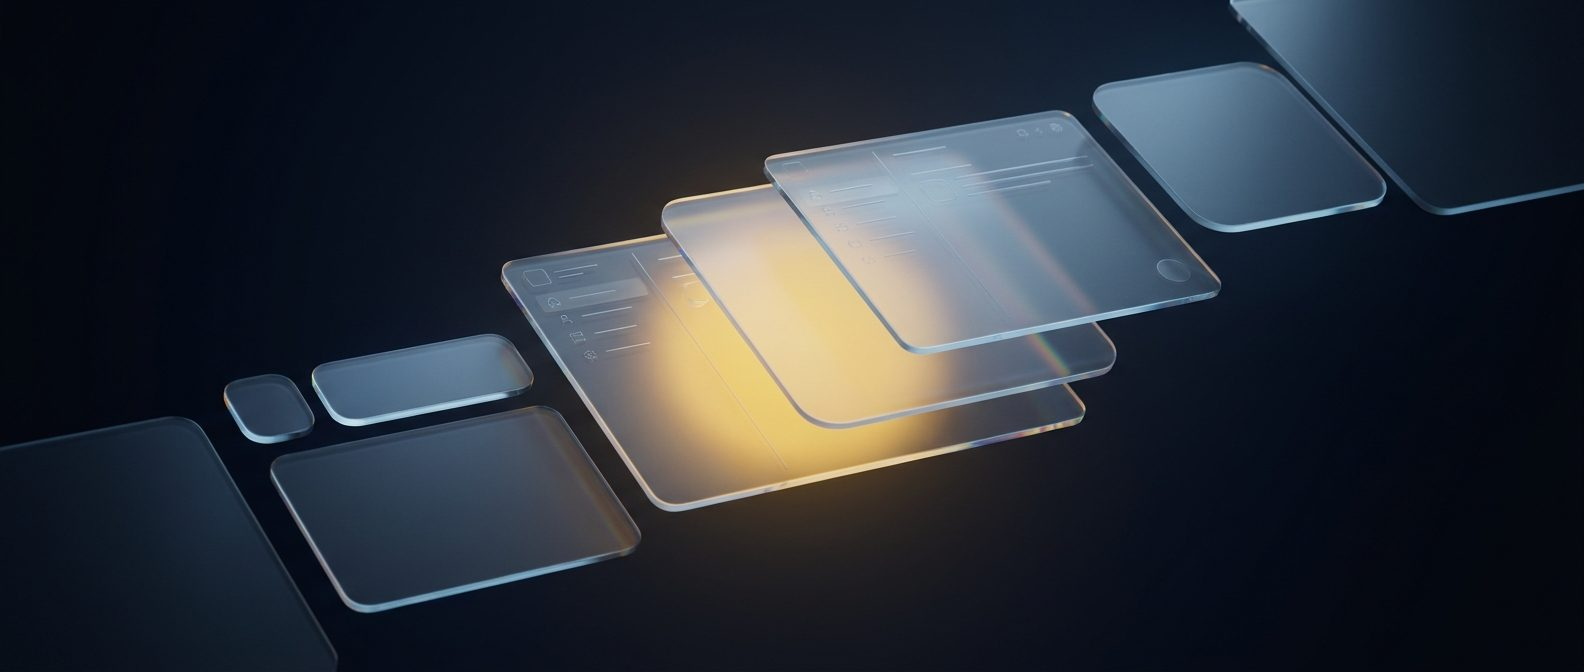
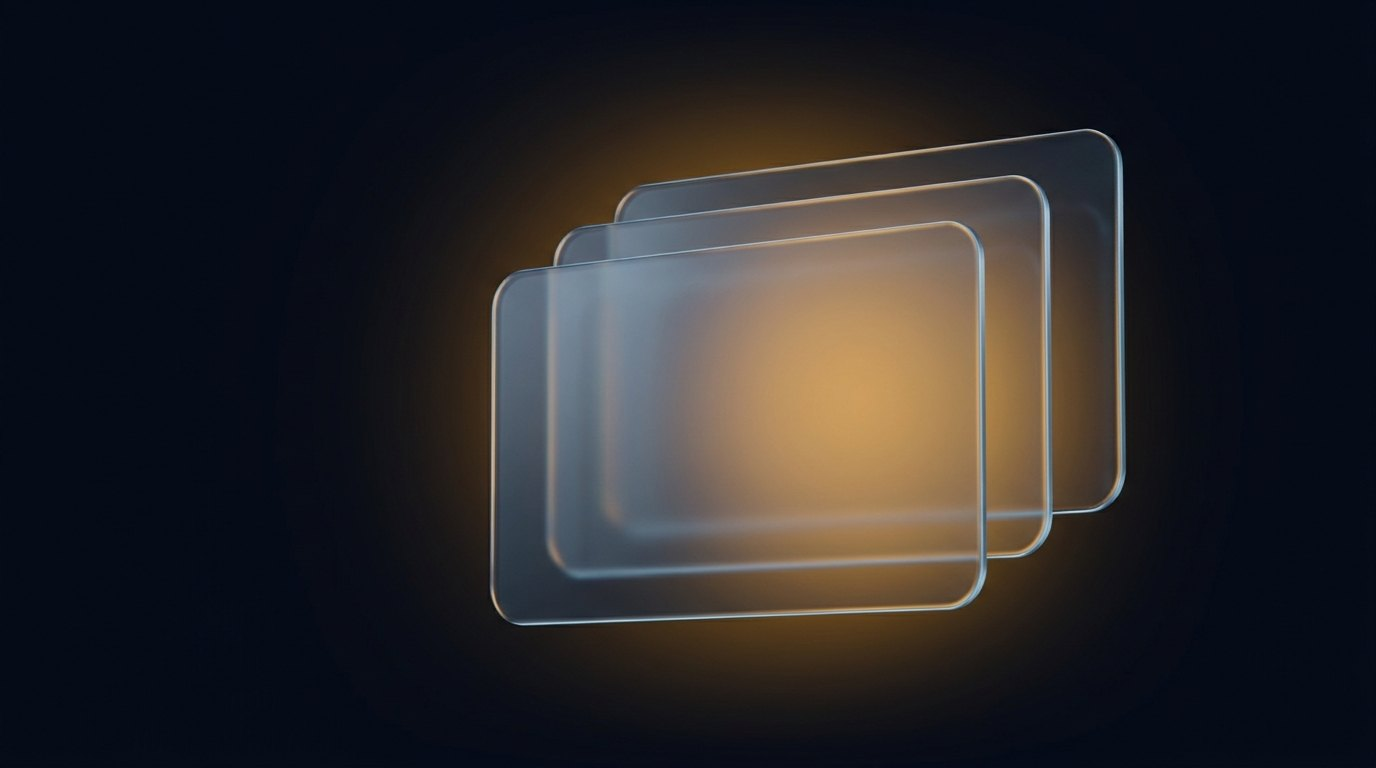
Refine contact block background and COD impact heading
- Contact block: new calmer glass-stack background, vignette, grain and
  outline; glass shifted clear of the heading, narrower lead on desktop
- Calculations on Demand: impact heading on three lines from tablet up

diff --git a/assets/css/styles.css b/assets/css/styles.css
@@ -363,6 +363,22 @@ label,
   margin-bottom: clamp(var(--sp-8), 5vw, var(--sp-10));
 }
 
+/* long headings that should run wider than the default measure */
+.section-head--wide {
+  max-width: none;
+}
+
+/* line breaks that apply from tablet width up */
+.br-lg {
+  display: none;
+}
+
+@media (min-width: 720px) {
+  .br-lg {
+    display: inline;
+  }
+}
+
 .section-head--center {
   margin-inline: auto;
   text-align: center;
@@ -2444,7 +2460,9 @@ label,
   padding: clamp(1.25rem, 0.5rem + 2.2vw, 2.5rem) clamp(1.25rem, 0.25rem + 4.5vw, 5rem);
   border-radius: var(--r-xl);
   overflow: hidden;
-  background: var(--bg-1);
+  background: #05070f;
+  outline: 1px solid var(--line);
+  outline-offset: -1px;
 }
 
 @media (min-width: 1200px) {
@@ -2462,15 +2480,41 @@ label,
   width: 100%;
   height: 100%;
   object-fit: cover;
-  opacity: 0.85;
+  object-position: 58% 50%;
 }
 
+/* side-by-side layout: shift the glass stack right, clear of the heading */
+@media (min-width: 1200px) {
+  .cta__bg {
+    transform: translateX(4%);
+  }
+
+  .cta__copy .lead {
+    max-width: min(27rem, 28vw);
+  }
+}
+
+/* readability on the left + soft vignette so the image melts into the panel edges */
 .cta::before {
   content: "";
   position: absolute;
   inset: 0;
   z-index: -1;
-  background: linear-gradient(90deg, rgba(11, 13, 22, 0.85) 0%, rgba(11, 13, 22, 0.35) 60%, rgba(11, 13, 22, 0.55) 100%);
+  background:
+    linear-gradient(90deg, rgba(11, 13, 22, 0.88) 0%, rgba(11, 13, 22, 0.55) 34%, rgba(11, 13, 22, 0) 62%),
+    radial-gradient(120% 120% at 55% 50%, transparent 45%, rgba(11, 13, 22, 0.85) 100%);
+}
+
+.cta::after {
+  content: "";
+  position: absolute;
+  inset: 0;
+  z-index: -1;
+  border-radius: inherit;
+  background-image: var(--grain);
+  opacity: 0.06;
+  mix-blend-mode: overlay;
+  pointer-events: none;
 }
 
 .cta__title {

diff --git a/calculations-on-demand.html b/calculations-on-demand.html
@@ -243,9 +243,9 @@
   <!-- ============ Impact ============ -->
   <section class="section" aria-labelledby="impact-title">
     <div class="container">
-      <div class="section-head rv">
+      <div class="section-head section-head--wide rv">
         <span class="eyebrow">Results</span>
-        <h2 class="h-xl" id="impact-title">We don’t just deliver numbers — we drive strategic efficiency that boosts your bottom line</h2>
+        <h2 class="h-xl" id="impact-title">We don’t just deliver numbers — <br class="br-lg">we drive strategic efficiency <br class="br-lg">that boosts your bottom line</h2>
       </div>
       <div class="tiles tiles--3">
         <div class="benefit rv">
@@ -293,7 +293,7 @@
     <div class="container">
       <!-- #contact is on the panel itself so the Contact link lands on it, not on the section spacing above -->
       <div class="cta" id="contact">
-        <img class="cta__bg" src="assets/img/gen/cta-glass.jpg" alt="" width="1584" height="672" loading="lazy">
+        <img class="cta__bg" src="assets/img/gen/cta-glass.jpg" alt="" width="1376" height="768" loading="lazy">
         <div class="cta__copy rv">
           <span class="eyebrow">Get in touch</span>
           <h2 class="cta__title h-xl" id="contact-title">Simplify your ground handling</h2>

diff --git a/index.html b/index.html
@@ -617,7 +617,7 @@
     <div class="container">
       <!-- #contact is on the panel itself so the Contact link lands on it, not on the section spacing above -->
       <div class="cta" id="contact">
-        <img class="cta__bg" src="assets/img/gen/cta-glass.jpg" alt="" width="1584" height="672" loading="lazy">
+        <img class="cta__bg" src="assets/img/gen/cta-glass.jpg" alt="" width="1376" height="768" loading="lazy">
         <div class="cta__copy rv">
           <span class="eyebrow">Get in touch</span>
           <h2 class="cta__title h-xl" id="contact-title">Simplify your airport ground operations</h2>

diff --git a/case-study-foxtrot-aviation-services.html b/case-study-foxtrot-aviation-services.html
@@ -303,7 +303,7 @@
     <div class="container">
       <!-- #contact is on the panel itself so the Contact link lands on it, not on the section spacing above -->
       <div class="cta" id="contact">
-        <img class="cta__bg" src="assets/img/gen/cta-glass.jpg" alt="" width="1584" height="672" loading="lazy">
+        <img class="cta__bg" src="assets/img/gen/cta-glass.jpg" alt="" width="1376" height="768" loading="lazy">
         <div class="cta__copy rv">
           <span class="eyebrow">Get in touch</span>
           <h2 class="cta__title h-xl" id="contact-title">Simplify your ground handling</h2>

diff --git a/case-study-iag-transform.html b/case-study-iag-transform.html
@@ -270,7 +270,7 @@
     <div class="container">
       <!-- #contact is on the panel itself so the Contact link lands on it, not on the section spacing above -->
       <div class="cta" id="contact">
-        <img class="cta__bg" src="assets/img/gen/cta-glass.jpg" alt="" width="1584" height="672" loading="lazy">
+        <img class="cta__bg" src="assets/img/gen/cta-glass.jpg" alt="" width="1376" height="768" loading="lazy">
         <div class="cta__copy rv">
           <span class="eyebrow">Get in touch</span>
           <h2 class="cta__title h-xl" id="contact-title">Simplify your ground handling</h2>

diff --git a/data-management.html b/data-management.html
@@ -298,7 +298,7 @@
     <div class="container">
       <!-- #contact is on the panel itself so the Contact link lands on it, not on the section spacing above -->
       <div class="cta" id="contact">
-        <img class="cta__bg" src="assets/img/gen/cta-glass.jpg" alt="" width="1584" height="672" loading="lazy">
+        <img class="cta__bg" src="assets/img/gen/cta-glass.jpg" alt="" width="1376" height="768" loading="lazy">
         <div class="cta__copy rv">
           <span class="eyebrow">Get in touch</span>
           <h2 class="cta__title h-xl" id="contact-title">Simplify your ground handling</h2>

diff --git a/flightprint.html b/flightprint.html
@@ -308,7 +308,7 @@
     <div class="container">
       <!-- #contact is on the panel itself so the Contact link lands on it, not on the section spacing above -->
       <div class="cta" id="contact">
-        <img class="cta__bg" src="assets/img/gen/cta-glass.jpg" alt="" width="1584" height="672" loading="lazy">
+        <img class="cta__bg" src="assets/img/gen/cta-glass.jpg" alt="" width="1376" height="768" loading="lazy">
         <div class="cta__copy rv">
           <span class="eyebrow">Get in touch</span>
           <h2 class="cta__title h-xl" id="contact-title">Simplify your ground handling</h2>

diff --git a/resource-management.html b/resource-management.html
@@ -295,7 +295,7 @@
     <div class="container">
       <!-- #contact is on the panel itself so the Contact link lands on it, not on the section spacing above -->
       <div class="cta" id="contact">
-        <img class="cta__bg" src="assets/img/gen/cta-glass.jpg" alt="" width="1584" height="672" loading="lazy">
+        <img class="cta__bg" src="assets/img/gen/cta-glass.jpg" alt="" width="1376" height="768" loading="lazy">
         <div class="cta__copy rv">
           <span class="eyebrow">Get in touch</span>
           <h2 class="cta__title h-xl" id="contact-title">Simplify your ground handling</h2>
